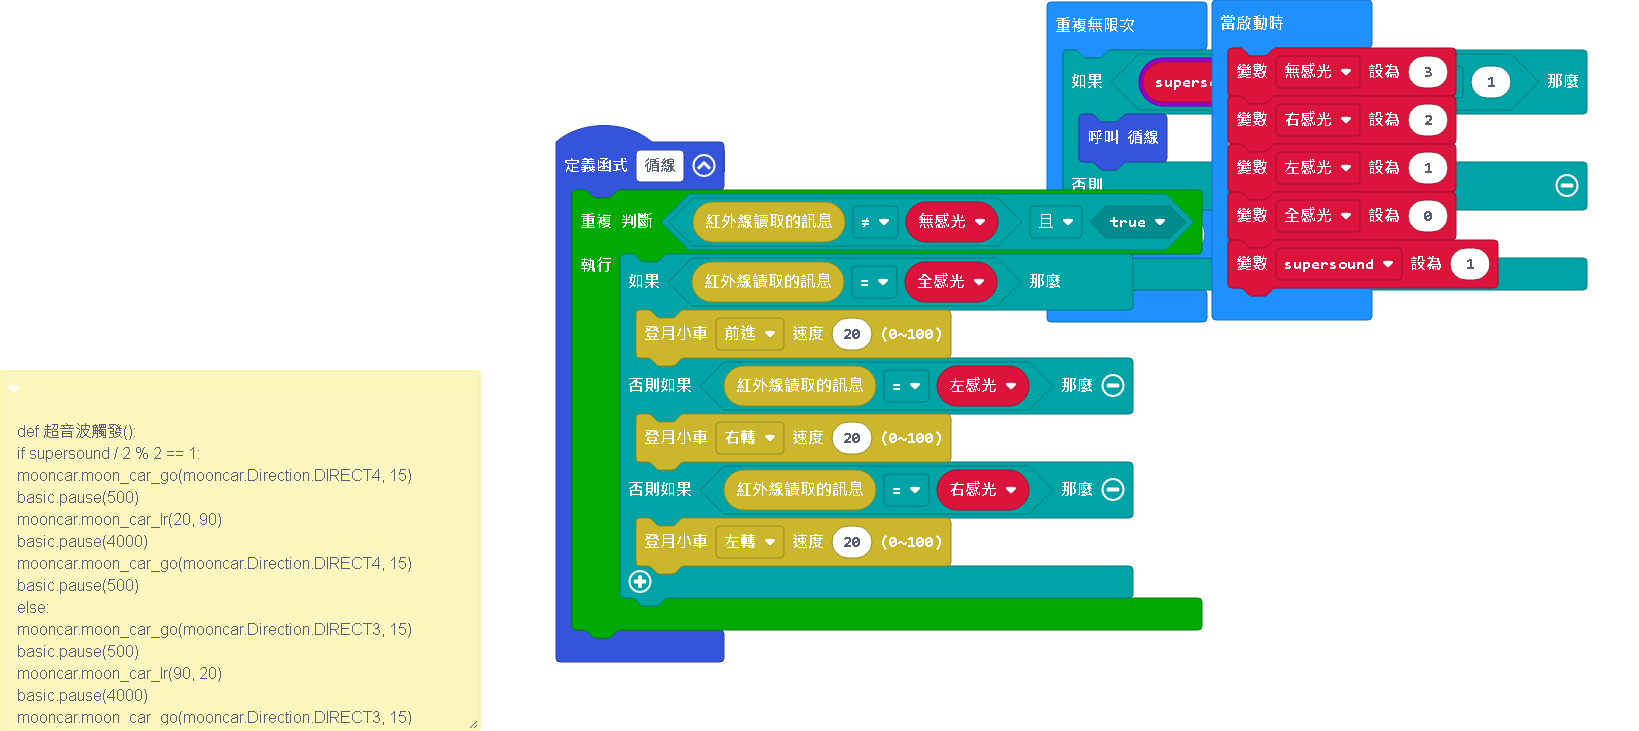
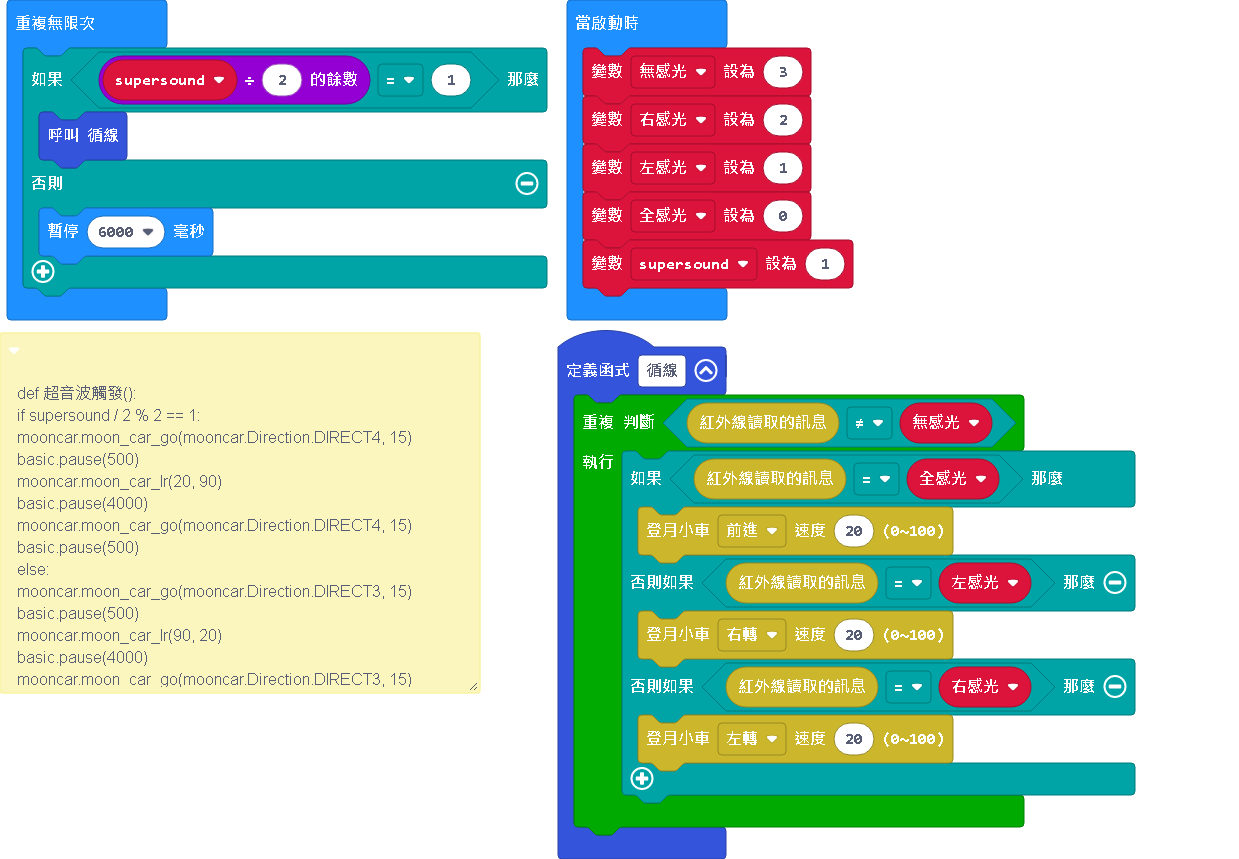
更新 main.blocks, main.ts, main.py

diff --git a/main.ts b/main.ts
@@ -1,5 +1,5 @@
 function 循線 () {
-    while (mooncar.IRRead() != 無感光 && true) {
+    while (mooncar.IRRead() != 無感光) {
         if (mooncar.IRRead() == 全感光) {
             mooncar.MoonCarGo(mooncar.Direction.direct1, 20)
         } else if (mooncar.IRRead() == 左感光) {

diff --git a/main.py b/main.py
@@ -6,24 +6,6 @@ def 循線():
             mooncar.moon_car_go(mooncar.Direction.DIRECT4, 20)
         elif mooncar.ir_read() == 右感光:
             mooncar.moon_car_go(mooncar.Direction.DIRECT3, 20)
-'''
-def 超音波觸發():
-    if supersound / 2 % 2 == 1:
-        mooncar.moon_car_go(mooncar.Direction.DIRECT4, 15)
-        basic.pause(500)
-        mooncar.moon_car_lr(20, 90)
-        basic.pause(4000)
-        mooncar.moon_car_go(mooncar.Direction.DIRECT4, 15)
-        basic.pause(500)
-    else:
-        mooncar.moon_car_go(mooncar.Direction.DIRECT3, 15)
-        basic.pause(500)
-        mooncar.moon_car_lr(90, 20)
-        basic.pause(4000)
-        mooncar.moon_car_go(mooncar.Direction.DIRECT3, 15)
-        basic.pause(500)
-'''
-supersound = 0
 全感光 = 0
 左感光 = 0
 右感光 = 0
@@ -41,14 +23,40 @@ def on_forever():
         basic.pause(6000)
 basic.forever(on_forever)
 
+"""
+
+def 超音波觸發():
+
+if supersound / 2 % 2 == 1:
+
+mooncar.moon_car_go(mooncar.Direction.DIRECT4, 15)
+
+basic.pause(500)
+
+mooncar.moon_car_lr(20, 90)
+
+basic.pause(4000)
+
+mooncar.moon_car_go(mooncar.Direction.DIRECT4, 15)
+
+basic.pause(500)
+
+else:
+
+mooncar.moon_car_go(mooncar.Direction.DIRECT3, 15)
+
+basic.pause(500)
+
+mooncar.moon_car_lr(90, 20)
+
+basic.pause(4000)
+
+mooncar.moon_car_go(mooncar.Direction.DIRECT3, 15)
+
+basic.pause(500)
+
+"""
+
 def on_forever2():
     mooncar.filllight(mooncar.Switch.OPEN)
 basic.forever(on_forever2)
-
-# def on_forever3():
-#     global supersound
-#     if mooncar.ultrasonic_sensor() <= 10:
-#         supersound += 1
-#         超音波觸發()
-#         supersound += 1
-# basic.forever(on_forever3)
